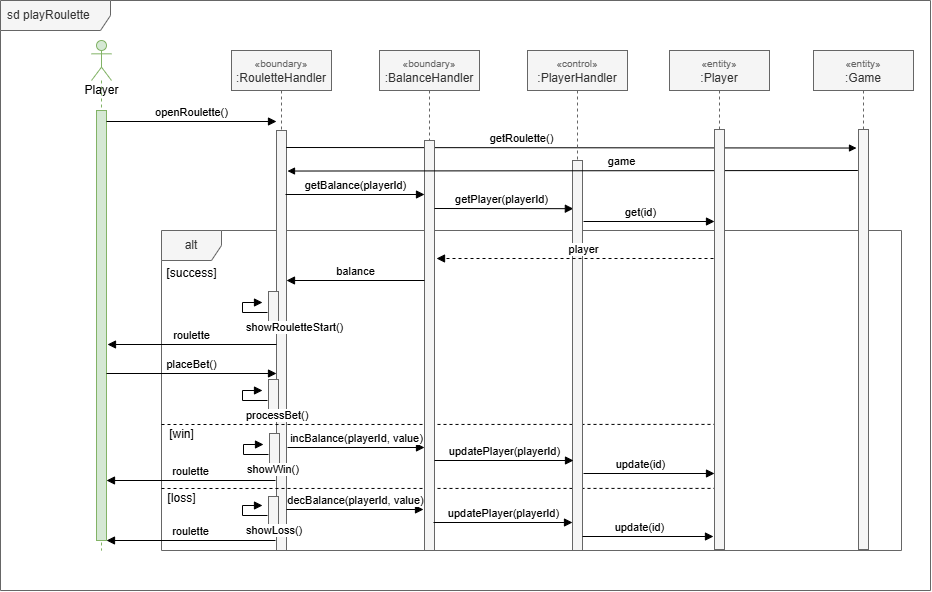
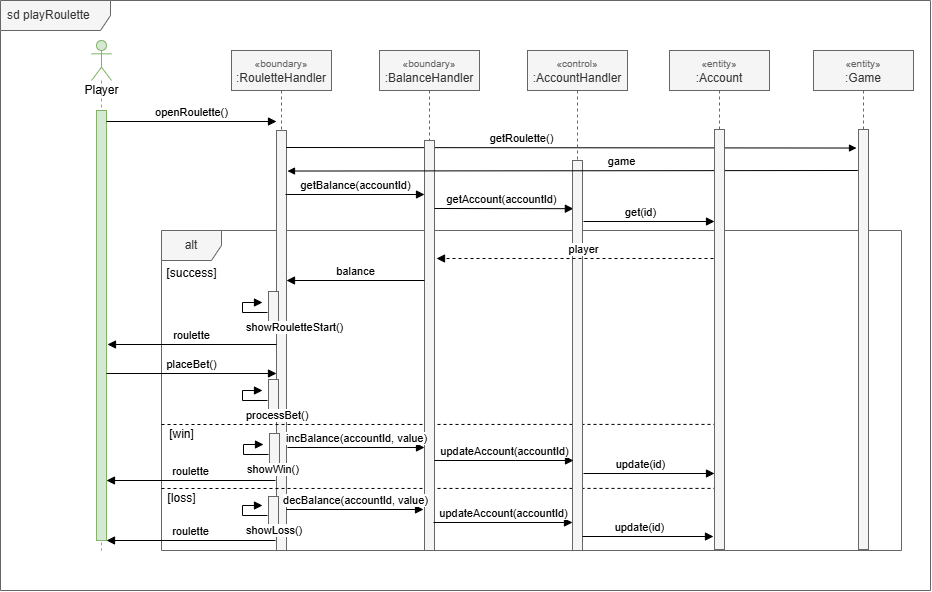
Task 4: Change Player/player to Account/account

diff --git a/docs/use_case_realizations/UCR-04_play_roulette.md b/docs/use_case_realizations/UCR-04_play_roulette.md
@@ -13,8 +13,8 @@ Like above mentioned, this realizes [UC-04 Play roulette](../use_cases/UC-04_Pla
 | ------ | ---------- | -------------- |
 | [:RouletteHandler] | boundary | Shows game and requests game entity |
 | [:BalanceHandler] | boundary | Shows and manages balance of current player through its id |
-| [:PlayerHandler] | control | Processes requests and returns player entity  |
-| [:Player] | entity | Stores data of the player |
+| [:AccountHandler] | control | Processes requests and returns player entity  |
+| [:Account] | entity | Stores data of the player |
 | [:Game] | entity | Stores data of the game |
 
 ### 2.2 Sequence diagrams
@@ -23,7 +23,7 @@ Like above mentioned, this realizes [UC-04 Play roulette](../use_cases/UC-04_Pla
 ### 2.3 Walkthrough
 - The `openRoulette()` function from `[:RouletteHandler]` starts the sequence by requesting game data through `getRoulette()` from `[:Game]` (UC-04 Steps: 1).
 
-- The `[:RouletteHandler]` requests player data through `getPlayer(playerId)` from `[:PlayerHandler]` and the database will return requested player through `get(id)`. Now `[:RouletteHandler]` receives the balance from `[:BalanceHandler]` (UC-04 Steps: 2, 3).
+- The `[:RouletteHandler]` requests player data through `getAccount(accountId)` from `[:AccountHandler]` and the database will return requested account through `get(id)`. Now `[:RouletteHandler]` receives the balance from `[:BalanceHandler]` (UC-04 Steps: 2, 3).
 
 - With the balance, the `[:BalanceHandler]` can show information and possible bets through `showRouletteStart()` (UC-04 Steps: 4).
 
@@ -32,9 +32,9 @@ Like above mentioned, this realizes [UC-04 Play roulette](../use_cases/UC-04_Pla
 - Now `[:BalanceHandler]` will process the bet and decide the outcome through with `processBet()`
 (UC-04 Steps: 7).
 
-- If player wins, `[:BalanceHandler]` will show the result and increase player's balance using `showWin()`, `incBalance(playerId, value)`... (UC-04 Steps: 7a, 8).
+- If player wins, `[:BalanceHandler]` will show the result and increase player's balance using `showWin()`, `incBalance(accountId, value)`... (UC-04 Steps: 7a, 8).
 
-- If player loses, `[:BalanceHandler]` will show the result and decrease player's balance using `showLoss()`, `decBalance(playerId, value)`... (UC-04 Steps: 7b, 8).
+- If player loses, `[:BalanceHandler]` will show the result and decrease player's balance using `showLoss()`, `decBalance(accountId, value)`... (UC-04 Steps: 7b, 8).
 
 ### 2.4 State machine
 Not applicable.

diff --git a/docs/use_case_realizations/UCR-01_view_account_balance.md b/docs/use_case_realizations/UCR-01_view_account_balance.md
@@ -4,7 +4,7 @@
 | Adolfo | [UC-01 View account balance](../use_cases/UC-01_View_account_balance.md) |
 
 ## 1 Introduction
-Like above mentioned, this realizes [UC-01 View account balance](../use_cases/UC-01_View_account_balance.md) and covers it entirely. Introduces BalanceHandler, PlayerHandler and Player.
+Like above mentioned, this realizes [UC-01 View account balance](../use_cases/UC-01_View_account_balance.md) and covers it entirely. Introduces BalanceHandler, AccountHandler and Account.
 
 ## 2 Flow of events — design
 
@@ -12,16 +12,16 @@ Like above mentioned, this realizes [UC-01 View account balance](../use_cases/UC
 | Object | Stereotype | Responsibility |
 | ------ | ---------- | -------------- |
 | [:BalanceHandler] | boundary | Shows balance of current player through its id |
-| [:PlayerHandler] | control | Processes requests and returns player entity  |
-| [:Player] | entity | Stores data of the player |
+| [:AccountHandler] | control | Processes requests and returns player entity  |
+| [:Account] | entity | Stores data of the player |
 
 ### 2.2 Sequence diagrams
 ![Sequence diagram UCR-01](../diagrams/UCR-01_sequence.png)
 
 ### 2.3 Walkthrough
-- The `getBalance()` function from `[:BalanceHandler]` starts the sequence by requesting player data through `getPlayer(playerId)` from `[:PlayerHandler]` (UC-01 Steps: 1, 2).
+- The `getBalance()` function from `[:BalanceHandler]` starts the sequence by requesting player data through `getAccount(accountId)` from `[:AccountHandler]` (UC-01 Steps: 1, 2).
 
-- The database will return requested player through `get(id)` and `[:BalanceHandler]` displays player's balance with `showBalance()`(UC-01 Steps: 3, 4).
+- The database will return requested account through `get(id)` and `[:BalanceHandler]` displays player's balance with `showBalance()`(UC-01 Steps: 3, 4).
 
 - Finally, the player will receive `balance` from `[:BalanceHandler]`.
 
